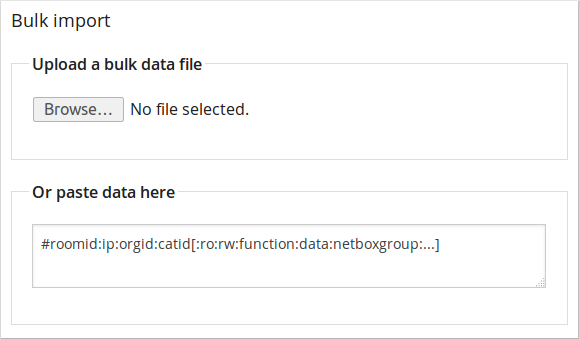
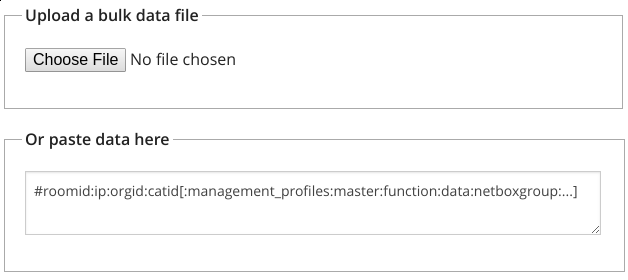
Update the getting-started docs to include mgmt profiles.

Changed region(s): [[0.0, 0.0, 1.0, 1.0]]

diff --git a/doc/intro/getting-started.rst b/doc/intro/getting-started.rst
@@ -93,17 +93,47 @@ adminstrator's password to something more sensible.
 Seeding your database
 =====================
 
-NAV will *not* autodiscover the routers and switches of your network.  You
-need to use the `SeedDB` tool to enter IP addresses to monitor.  The `SeedDB`
-tool is listed on NAV's `Toolbox` page, reachable from the grey navigation
-bar.
+NAV will *not* autodiscover the routers and switches of your network. The
+assumption is that you already have this information in some inventory
+system.
+
+The *SeedDB* tool enables to you add and edit a multitude of "seed" information
+in the NAV database, which tells NAV what and how to monitor. The essential bit
+here is the :term:`IP Device`, which represents your switches, routers and
+other networked devices.
+
+The *SeedDB* tool is listed on NAV's *Toolbox* page, reachable from the grey
+navigation bar.
+
+Adding your first management profile
+------------------------------------
+
+To manage IP devices using SNMP, you first need to add at least one *SNMP
+management profile*, to define your SNMP communication parameters. This is done
+in the :guilabel:`Management Profile` tab of *SeedDB*. Let's say most of your
+devices can be managed using SNMP v2c and a default community string of
+``public``:
+
+1. Click the :guilabel:`Management Profile` tab and then the sub-tab
+   :guilabel:`Add new management profile`.
+2. Choose and fill out a unique name for your profile, e.g. ``Default SNMP v2c
+   read-only profile``, and add an optional description of it.
+3. Select ``SNMP`` from the :guilabel:`Protocol` dropdown menu. An
+   :guilabel:`SNMP Configuration` form will appear to the right.
+4. Ensure ``v2c`` is selected from the :guilabel:`Version` dropdown, and put
+   ``public`` in the :guilabel:`Community` field.
+5. Click the :guilabel:`Save management profile` button to save your new
+   profile.
+
+.. image:: seeddb-add-profile.png
+
 
 Adding your first device to NAV
 -------------------------------
 
-The `SeedDB` tool enables to you add and edit a multitude of information in
-the NAV database, but the essential bit here is the :term:`IP Device`.  Begin,
-for example, by adding one of your switches:
+Now that you have added your first management profile, you can add your first
+device that uses this profile. Begin, for example, by adding one of your
+switches:
 
 1. Click the :guilabel:`IP device` tab and then the sub-tab :guilabel:`Add new
    IP device`
@@ -112,26 +142,31 @@ for example, by adding one of your switches:
    drop-downs.
 3. Select :guilabel:`SW` in the category dropdown.  Don't worry, we'll explain
    the categories later.
-4. Put your switch's SNMP community in the :guilabel:`Read only` field and click
-   the :guilabel:`Check connectivity` button.
+4. Click the :guilabel:`Profiles` field. The name of your newly created SNMP
+   profile should appear: Select it. The buttow below the profile selector
+   reads :guilabel:`Check connectivity`. Click this to have NAV verify that it
+   can communicate with this device using the selected profile.
 
 .. image:: seeddb-add-ipdevice.png
 
-NAV will now check if this IP address responds to SNMP (v2c or v1) queries using
-the entered community and, if possible, detect the device's type (from its
-`sysObjectID` value).  NAV does not require that the connectivity test is
+During the connectivity check, NAV will also try to detect the device's type (from its
+``sysObjectID`` value).  NAV does not require that the connectivity test is
 successful, or even that the test is run, to add the device. But if the test
-fails this means that NAV can not communicate with the device. If that happens
-you should verify that the information in the :guilabel:`IP` and :guilabel:`Read
-only` fields is correct.
+fails, this means that NAV can not communicate with the device. If that happens,
+you should verify that the IP address and the management profile details are correct.
 
-If you want you can add some free form text about the function of the device in
-the function field, put the device into one or more relevant groups and even
+If you want, you can add some free form text about the function of the device in
+the function field, put the device into one or more relevant groups, and even
 assign custom attributes to it. These attributes will be used when NAV presents
 information about the device.
 
 Click on :guilabel:`Save IP device` to finalize your entry of this device into
 NAV's database.
+
+.. note:: You can, in fact, add multiple management profiles to your devices,
+          but at the moment, this is only useful to distinguish between
+          profiles that will grant read-only SNMP access and profiles that will
+          grant read-write access.
 
 
 Verifying that collection is working
@@ -193,7 +228,7 @@ categories:
 `OTHER`
   Any other type of device not fitting neatly into the other categories.
 
-All categories will *require* an SNMP community to be configured, except for
+All categories will *require* a read-only SNMP profile to be assigned to the device, except for
 `SRV` and `OTHER`, where it is optional.
 
 .. _seeddb-bulk-import-intro:
@@ -207,24 +242,24 @@ where the :guilabel:`Bulk import` function comes into the picture:
 
 .. image:: seeddb-bulkimport-ipdevice.png
 
-Assuming you have a readily available list of IP addresses to monitor, you can
+Assuming you have a readily available list of IP addresses to monitor, e.g. from your inventory system, you can
 create a comma (or colon) separated text file with the required details and
 upload or paste it into the :guilabel:`bulk import` form.
 
 The format is pretty straightforward: The initial fields are required, while
 the fields listed in square brackets are optional. Optional fields can be
 omitted or left blank. A line beginning with a `#` sign will be regarded as a
-comment and ignored. Thus, for adding some switch with the SNMP community
-:kbd:`public` and a function description of :kbd:`Packet switching`, this line
-would do it::
+comment and ignored. Thus, for adding some switch using the default SNMP
+management profile you added earlier, and a function description of
+:kbd:`Packet switching`, this line would do it::
 
-  myroom:10.0.1.42:myorg:SW:public:::Packet switching
+  myroom:10.0.1.42:myorg:SW:Default SNMP v2c read-only profile::Packet switching
 
 Click :guilabel:`Preview import` to have NAV validate your input. Each line
-will be displayed with colored status dot.  A green dot indicates the line was
+will be displayed with a colored status dot.  A green dot indicates the line was
 found OK and will be imported once you submit.  A yellow or red dot indicates
 an error with the line; such a line will be ignored when you submit the
-preview form, unless you go back and fix it before trying again.
+preview form, unless you go back and fix it before submitting the form again.
 
 .. |URL| replace:: http://example.org/
 
